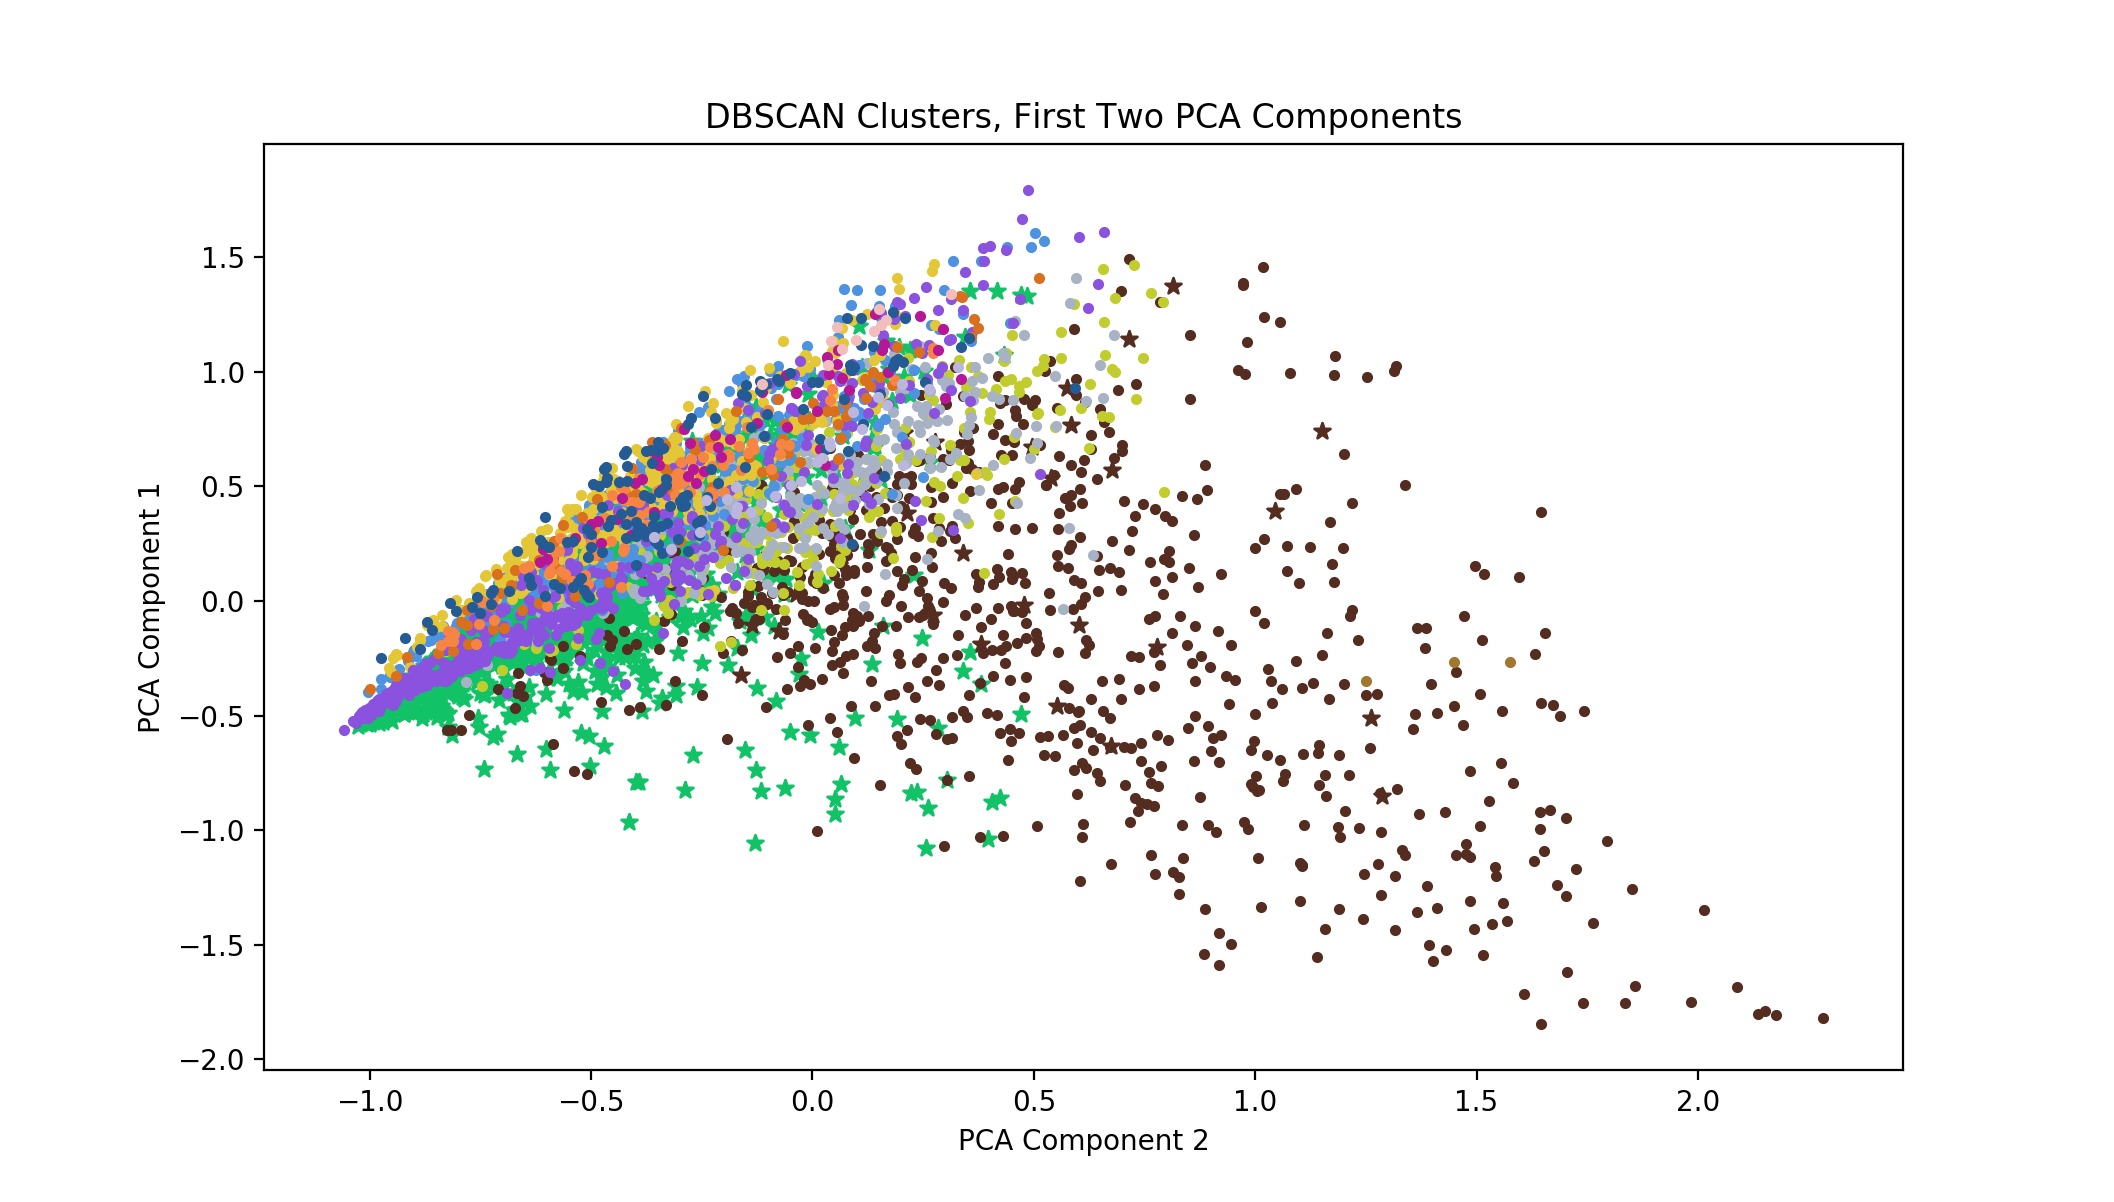
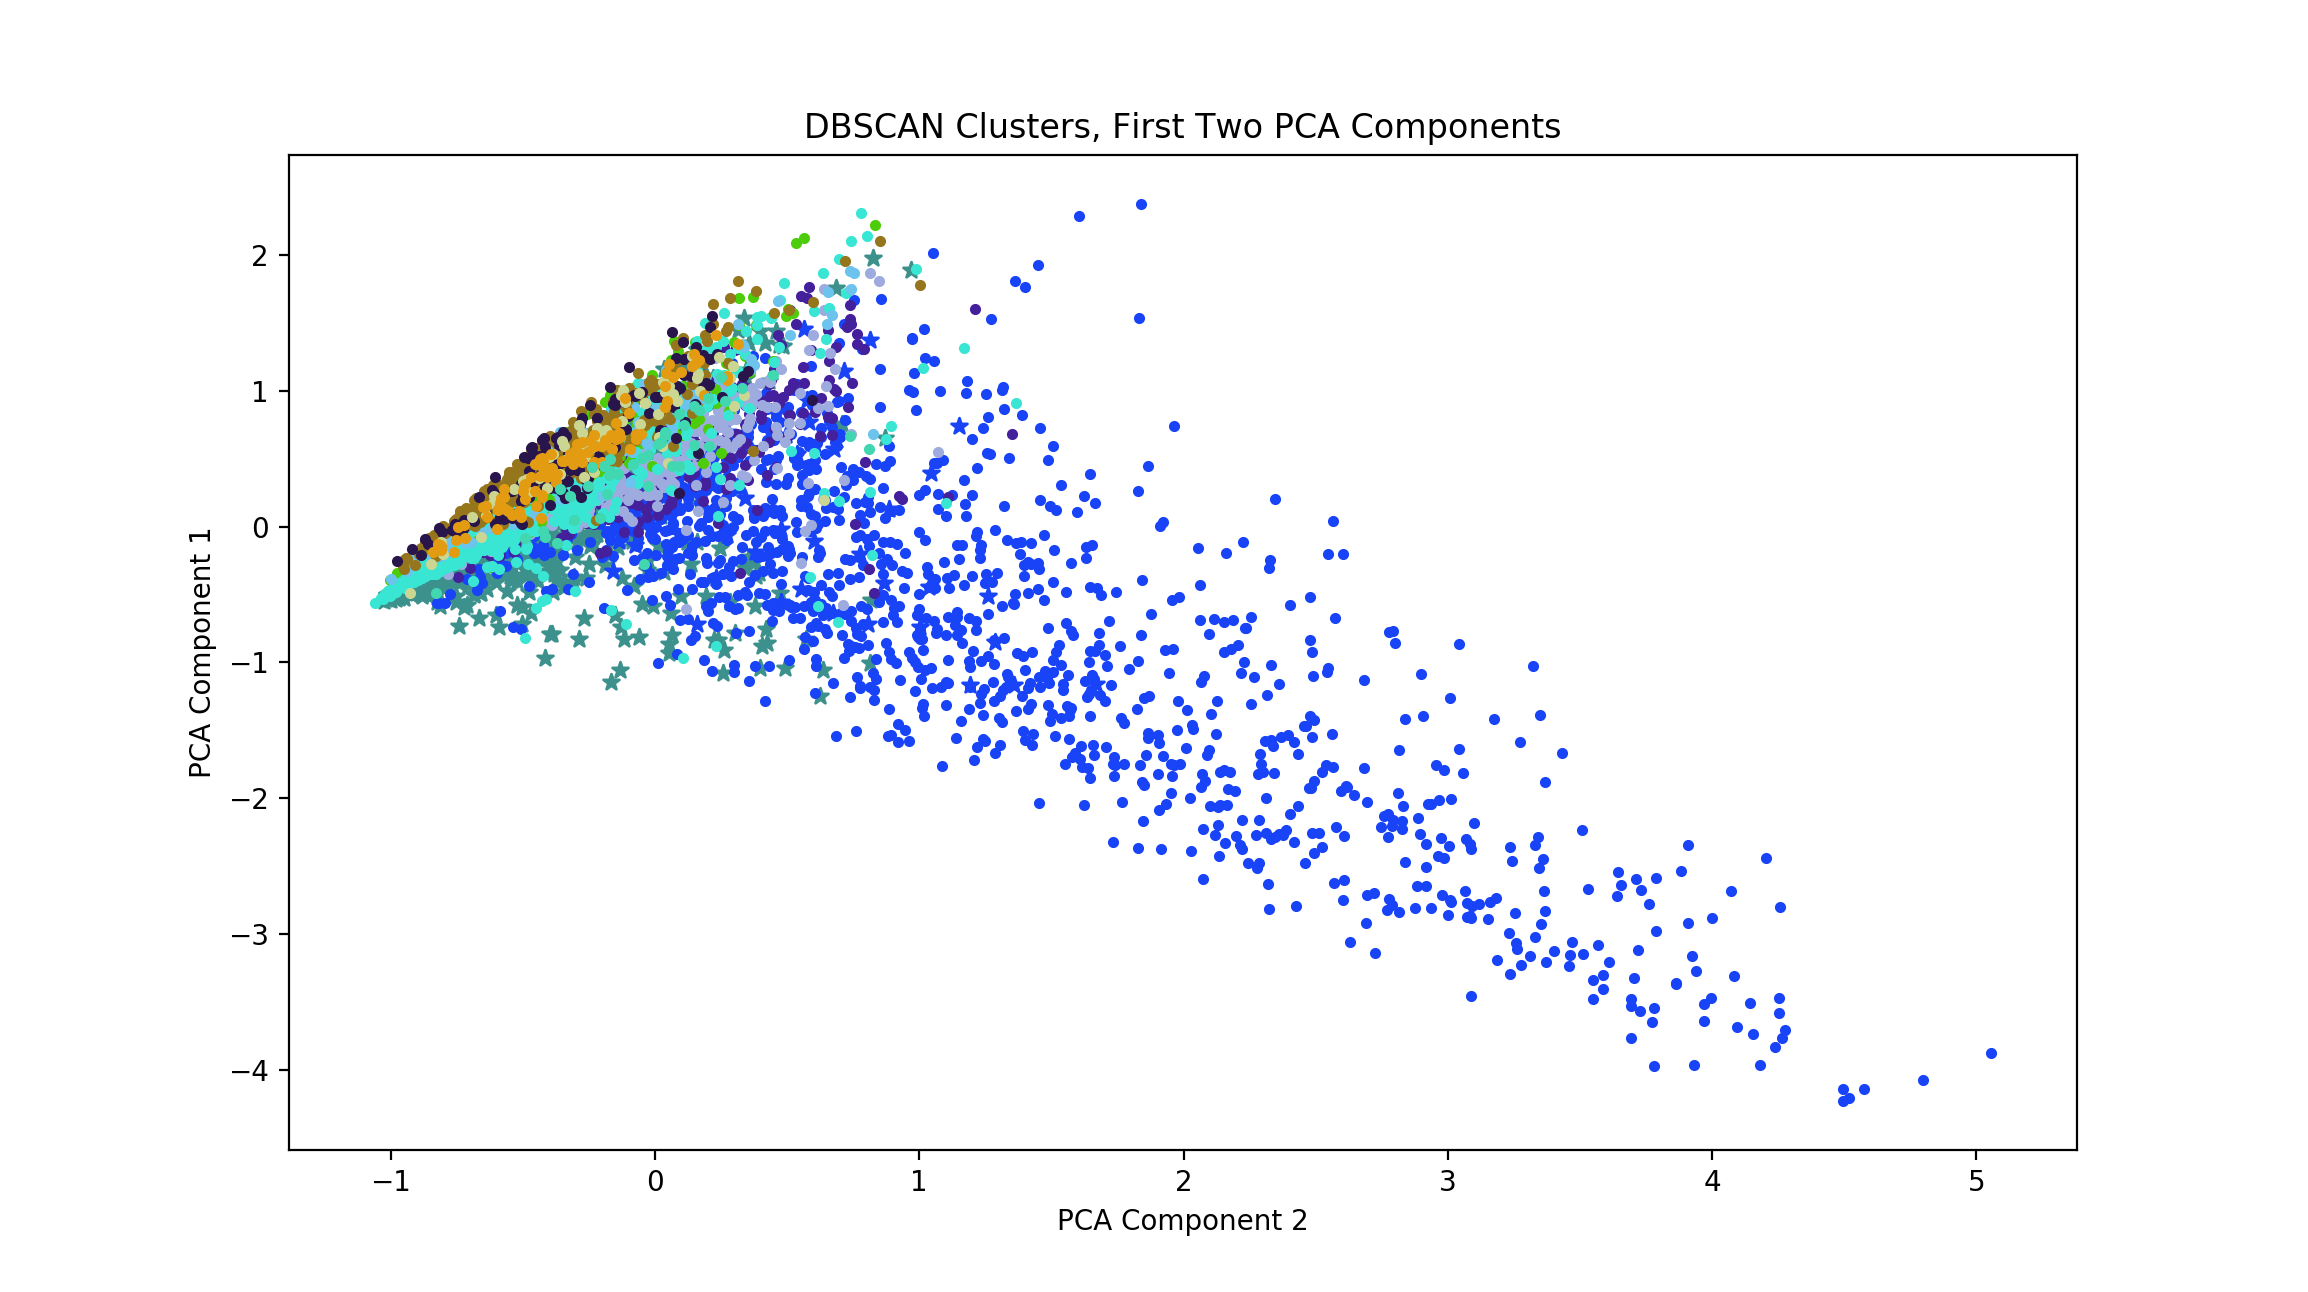
Update midterm report, DBSCAN results beginning

diff --git a/clustering/dbscan/dbscan.py b/clustering/dbscan/dbscan.py
@@ -31,8 +31,8 @@ def dbscan(X, y):
 
     flag = True
     sils = []
-    ep = 0.5
-    min_samples = 6
+    ep = 1
+    min_samples = 15
     # Compute DBSCAN
     db = DBSCAN(eps=ep, min_samples=min_samples).fit(X)
     labels = db.labels_
@@ -46,8 +46,6 @@ def dbscan(X, y):
         frequencies = np.asarray((unique, counts)).T
         print("CLUSTER ", i)
         print(frequencies)
-
-
     plot_dbscan(X=X, y=y, dbscan_labels=labels)
 
 
@@ -78,5 +76,5 @@ def plot_dbscan(X, y, dbscan_labels):
 if __name__ == "__main__":
     top_10, top_5, labels = load_data()
     print(labels)
-    dbscan(top_5, labels)
+    dbscan(top_10, labels)
 

diff --git a/midterm_report.md b/midterm_report.md
@@ -20,7 +20,7 @@ Before dropping any columns, 36 columns contained at least some NaN values. This
 
 After dropping the categorical columns, we still had the NaN problem. There were two columns, koi_teq_err1 and koi_teq_err2 that had no values for any data points, so those were dropped. Then, we reached a spot in our data cleaning process where some decisions had to be made. Most of the continuous columns had err1 and err2 values, which were essentially the confidence interval range for the actual value measured for the column. For example, if koi_depth was 2, err1 could be 1, and err2 could be -0.5, telling us that the actual bounds for koi_depth were between [1.5, 3]. We considered having different columns for upper and lower bounds, but didn't see that the information added by that would be exceedingly helpful. Because of this we chose to essentially ignore all of the error columns and keep the measured values. After doing this, we removed the data points that still contained NaN values. We decided to not impute the missing values due to the variation between the physical characteristics of all of the data points.
 
-Cleaning the data of NaN values and unnecessary columns reduced our dataset to 22 columns and nearly 8000 data points. 8000 data points is plenty to use for our purposes. 
+Cleaning the data of NaN values and unnecessary columns reduced our dataset to 22 columns and nearly 8000 data points. We are confident that 8000 data points is enough for a successful and generalized classification model.
 
 **Note:** The feature koi_score was not removed during the cleaning process, but we chose to not include it in our final list of features. The definition of this 
 feature is "a value between 0 and 1 that indicates the confidence in the KOI disposition. For CANDIDATEs, a higher value indicates more confidence in its disposition, while for FALSE POSITIVEs, a higher value indicates less confidence in that disposition. The value is calculated from a Monte Carlo technique such that the score's value is equivalent to the frction of iterations where the Robovetter yields a disposition of CANDIDATE." Thus, the koi_score is directly linked to the koi_pdisposition of the data point, our target variable, using complex mathmatical methods. Because of this direct correlation, and the fact that it is not a physical characteristc of the exoplanet, we have chosen to disregard it from consideration for features.
@@ -66,7 +66,7 @@ In order to evaluate quality of a model’s fit the team used two techniques. Th
 
 ### Hierarchical Clustering
 ### Density-Based Spatial Clustering of Applications with Noise (DBSCAN)
-Density-Based Spatial Clustering of Applications with Noise (DBSCAN) is a non-parametric, density-based clustering algorithm. DBSCAN detects arbitrarily shaped clusters in the data, where a cluster is defined as a maximal set of density-connected points. 
+Density-Based Spatial Clustering of Applications with Noise (DBSCAN) is a non-parametric, density-based clustering algorithm. DBSCAN detects arbitrarily shaped clusters in the data, where a cluster is defined as a maximal set of density-connected points. A point is described as being a part of a cluster if it is within a core point's \epsilon-neighborhood, which means the data point is within the distance \epsilon from the core point. In order to be called a cluster instead of outliers, each cluster must contain at least a minimum number of samples. The two parameters we tuned to create our ideal DBSCAN model were \epsilon and the minimum number of samples for a group of points to be defined as a cluster.
 
 
 ## Supervised
@@ -96,6 +96,43 @@ As the above figure highlights, 2 clusters is approximately when the AIC/BIC beg
 ### Result
 ## DBSCAN
 ### Result
+#### Using Top 10 Features
+**Parameter Values:** \epsilon = 1, min_samples = 15
+| Cluster Number | Number of CANDIDATES | Number of FALSE POSITIVES | **Percent CANDIDATE Objects in Cluster** |
+|---|---|---|---|
+| 0 | 3967 | 0 | 100% |
+| 1 | 39 | 1213 | 0.03% |
+| 2 | 0 | 298 | 0% |
+| 3 | 0 | 306 | 0% |
+| 4 | 0 | 449 | 0% |
+| 5 | 0 | 525 | 0% |
+| 6 | 0 | 103 | 0% |
+| 7 | 0 | 360 | 0% |
+| 8 | 0 | 153 | 0% |
+| 9 | 0 | 63 | 0% |
+| 10 | 0 | 104 | 0% |
+| 11 | 0 | 41 | 0% |
+
+![](images/dbscan_clusters_top10.png)
+#### Using Top 5 Features
+**Parameter Values:** \epsilon = 0.5, min_samples = 6
+
+| Cluster Number | Number of CANDIDATES | Number of FALSE POSITIVES | **Percent CANDIDATE Objects in Cluster** |
+|---|---|---|---|
+| 0 | 3986 | 0 | 100% |
+| 1 | 41 | 1377 | 0.03% |
+| 2 | 0 | 314 | 0% |
+| 3 | 0 | 322 | 0% |
+| 4 | 0 | 458 | 0% |
+| 5 | 0 | 601 | 0% |
+| 6 | 0 | 113 | 0% |
+| 7 | 0 | 366 | 0% |
+| 8 | 0 | 155 | 0% |
+| 9 | 0 | 72 | 0% |
+| 10 | 0 | 105 | 0% |
+| 11 | 0 | 52 | 0% |
+
+![](images/dbscan_clusters_top5.png)
 
 
 # Discussion
